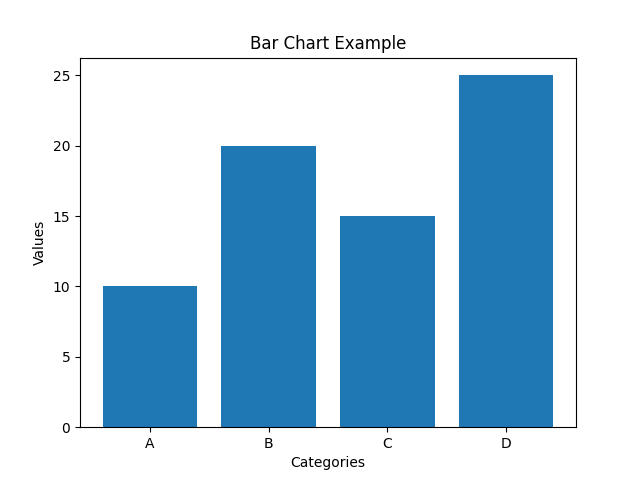
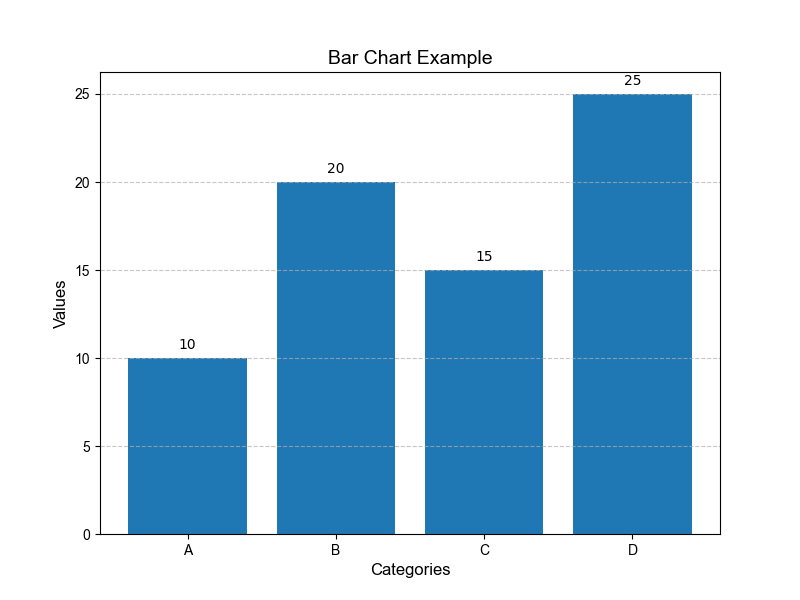
added some functions

diff --git a/app.py b/app.py
@@ -47,28 +47,55 @@ def get_colors(text):
     max_tokens = 200)
     return response.choices[0].message.content
 
-#   Completion call that returns a serialized JSON file of options as keys and then terms-info pairs as the value
-#   CONCEPT SHOULD BE THE KEY
-def get_table_info(option_list, concept_list):
-    #   Creating a string from the list so that it can be passed in at once to the GPT 
-    formatted_concept_list = ""
-    formatted_option_list = ""
-    for concept in concept_list:
-        formatted_concept_list.append(concept + ", ")
-    for option in option_list:
-        formatted_option_list.append(option + ", ")  
-        
+#   Competion call that returns a serialized JSON with title as key and key value pairs as value
+def get_chart_info(option_list, metric):
     response = client.chat.completions.create(model="gpt-3.5-turbo-0125",
     messages=[
     {"role": "system", "content": """
-    YOU WILL PROVIDE NO OUTPUT EXCEPT JSON. You recieve a list of concepts. You will also recieve a list of options. You will compare each option
-    to eachother in terms of the concepts provided. Your output format should be the concepts as keys, and then a key value pair of options and its corresponding
-    information.
+    YOU WILL PROVIDE NO OUTPUT EXCEPT JSON. You recieve a metric. You will also recieve a list of options. You will compare each option
+    to eachother in terms of the metric. Your output format should be the concepts as keys, and then a key value pair of options and its corresponding
+    metric information as an integer.
     """},
-    {"role": "user", "content": " in terms of " + concept_list + " compare " + option_list},
+    {"role": "user", "content": " in terms of " + metric + " compare " + option_list},
     ],
     max_tokens = 200)
     return response.choices[0].message.content
+
+#   Generates bar chart and saves to Spring Boot static folder
+def create_bar_chart(categories, values):
+    
+    ##########  We need to create a dict or a list from the serialized JSON array created by get_chart_info() and pass this into the rest of the function
+    
+    # Sample data
+    categories = ['A', 'B', 'C', 'D']
+    values = [10, 20, 15, 25]
+
+    # Create bar chart
+    plt.figure(figsize=(8, 6))  # Adjust figure size for better visualization
+    bars = plt.bar(categories, values)
+
+    # Add data labels on top of each bar
+    for bar in bars:
+        yval = bar.get_height()
+        plt.text(bar.get_x() + bar.get_width()/2, yval + 0.5, round(yval, 1), ha='center', color='black', fontsize=10)
+
+    # Add grid lines for better readability
+    plt.grid(axis='y', linestyle='--', alpha=0.7)
+
+    # Add labels and title
+    plt.xlabel('Categories', fontsize=12, fontname='Arial')  # Change font to Arial
+    plt.ylabel('Values', fontsize=12, fontname='Arial')      # Change font to Arial
+    plt.title('Bar Chart Example', fontsize=14, fontname='Arial')  # Change font to Arial
+
+    # Customize ticks and tick labels
+    plt.xticks(fontsize=10, fontname='Arial')  # Change font to Arial
+    plt.yticks(fontsize=10, fontname='Arial')  # Change font to Arial
+
+    # Save plot to static folder
+    plt.savefig('./gptgenerator/src/main/resources/static/images/my_bar_chart.png')
+
+    # Show plot
+    plt.show()
 
 
 if __name__ == "__main__":

diff --git a/bar_chart.py b/bar_chart.py
@@ -5,16 +5,28 @@ categories = ['A', 'B', 'C', 'D']
 values = [10, 20, 15, 25]
 
 # Create bar chart
-plt.bar(categories, values)
+plt.figure(figsize=(8, 6))  # Adjust figure size for better visualization
+bars = plt.bar(categories, values)
+
+# Add data labels on top of each bar
+for bar in bars:
+    yval = bar.get_height()
+    plt.text(bar.get_x() + bar.get_width()/2, yval + 0.5, round(yval, 1), ha='center', color='black', fontsize=10)
+
+# Add grid lines for better readability
+plt.grid(axis='y', linestyle='--', alpha=0.7)
 
 # Add labels and title
-plt.xlabel('Categories')
-plt.ylabel('Values')
-plt.title('Bar Chart Example')
+plt.xlabel('Categories', fontsize=12, fontname='Arial')  # Change font to Arial
+plt.ylabel('Values', fontsize=12, fontname='Arial')      # Change font to Arial
+plt.title('Bar Chart Example', fontsize=14, fontname='Arial')  # Change font to Arial
 
-# Save plot ot static folder
+# Customize ticks and tick labels
+plt.xticks(fontsize=10, fontname='Arial')  # Change font to Arial
+plt.yticks(fontsize=10, fontname='Arial')  # Change font to Arial
+
+# Save plot to static folder
 plt.savefig('./gptgenerator/src/main/resources/static/images/my_bar_chart.png')
 
 # Show plot
 plt.show()
-

diff --git a/chartgpt.py b/chartgpt.py
@@ -14,9 +14,9 @@ def get_chart_info(option_list, metric):
     response = client.chat.completions.create(model="gpt-3.5-turbo-0125",
     messages=[
     {"role": "system", "content": """
-    YOU WILL PROVIDE NO OUTPUT EXCEPT JSON. You recieve a list of concepts. You will also recieve a list of options. You will compare each option
-    to eachother in terms of the concepts provided. Your output format should be the concepts as keys, and then a key value pair of options and its corresponding
-    information as an integer.
+    YOU WILL PROVIDE NO OUTPUT EXCEPT JSON. You recieve a metric. You will also recieve a list of options. You will compare each option
+    to eachother in terms of the metric. Your output format should be the concepts as keys, and then a key value pair of options and its corresponding
+    metric information as an integer.
     """},
     {"role": "user", "content": " in terms of " + metric + " compare " + option_list},
     ],
